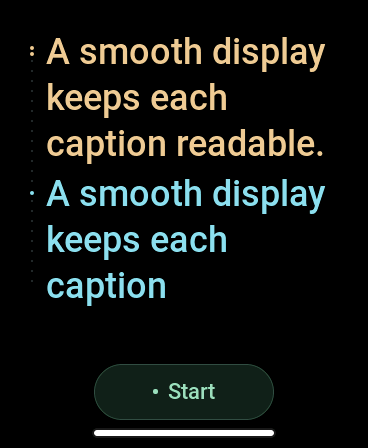
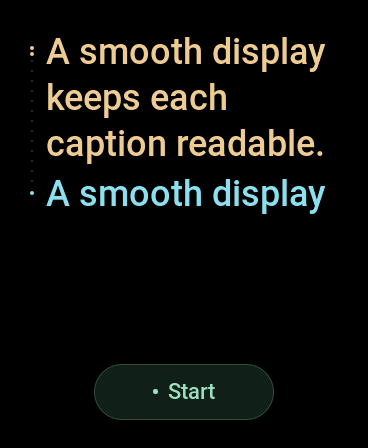
Hide the bottom gesture indicator in Live Voice

Changed region(s): [[0.1196, 0.5, 0.6277, 0.6875], [0.2391, 0.9375, 0.7473, 1.0]]

diff --git a/tools/prepare_voice.py b/tools/prepare_voice.py
@@ -277,6 +277,31 @@ def write_secrets(private, key, networks):
     )
 
 
+def patch_gesture_indicator(root):
+    """Allow an app to hide the bottom indicator without disabling gestures."""
+    phone = root / "components/brookesia_core/systems/phone"
+    replace(
+        phone / "esp_brookesia_phone_app.hpp",
+        "                    .enable_navigation_gesture = 1,",
+        "                    .enable_navigation_gesture = 1,\n"
+        "                    .hide_bottom_gesture_indicator = 0,",
+    )
+    replace(
+        phone / "esp_brookesia_phone_app.hpp",
+        "                                                                will be enabled. */",
+        "                                                                will be enabled. */\n"
+        "            uint8_t hide_bottom_gesture_indicator: 1; /*!< Hide only the visual hint, not gesture input. */",
+    )
+    replace(
+        phone / "esp_brookesia_phone_manager.cpp",
+        "        _flags.enable_gesture_show_left_right_indicator_bar = _flags.enable_gesture_show_mask_left_right_edge;\n"
+        "        _flags.enable_gesture_show_bottom_indicator_bar = _flags.enable_gesture_show_mask_bottom_edge;",
+        "        _flags.enable_gesture_show_left_right_indicator_bar = _flags.enable_gesture_show_mask_left_right_edge;\n"
+        "        _flags.enable_gesture_show_bottom_indicator_bar = _flags.enable_gesture_show_mask_bottom_edge &&\n"
+        "                !app_data->flags.hide_bottom_gesture_indicator;",
+    )
+
+
 def patch_audio_stats(root):
     """Expose TX DMA starvation without logging or taking locks in the ISR."""
     header = root / "components/bsp_extra/include/bsp_board_extra.h"
@@ -593,6 +618,7 @@ def main():
         '    case BSP_EXTRA_AUDIO_OWNER_XIAOZHI: return "Xiaozhi";',
         '    case BSP_EXTRA_AUDIO_OWNER_XIAOZHI: return "Xiaozhi";\n    case BSP_EXTRA_AUDIO_OWNER_LIVE: return "Live Voice";',
     )
+    patch_gesture_indicator(root)
     patch_audio_stats(root)
     patch_wifi_scan(root)
     defaults = root / "sdkconfig.defaults"

diff --git a/examples/waveshare/LiveVoice.cpp b/examples/waveshare/LiveVoice.cpp
@@ -251,8 +251,15 @@ LiveVoice *LiveVoice::requestInstance() {
   static auto *instance = new LiveVoice();
   return instance;
 }
-// Use the full height for the conversation; keep the launcher's back gesture.
-LiveVoice::LiveVoice() : App("Live Voice", nullptr, true, false, true) {}
+// Hide the persistent system chrome while retaining launcher navigation gestures.
+LiveVoice::LiveVoice()
+    : App(systems::base::App::Config::SIMPLE_CONSTRUCTOR("Live Voice", nullptr,
+                                                       true),
+          [] {
+            auto config = App::Config::SIMPLE_CONSTRUCTOR(nullptr, false, true);
+            config.flags.hide_bottom_gesture_indicator = 1;
+            return config;
+          }()) {}
 bool LiveVoice::init() {
   live_esp32_config_t cfg{};
   cfg.api_key = LIVE_API_KEY;

diff --git a/docs/screenshots/README.md b/docs/screenshots/README.md
@@ -3,11 +3,12 @@
 These PNGs are direct framebuffer captures from Live Voice running on a physical
 Waveshare ESP32-S3-Touch-AMOLED-1.8 V2. They show the full
 368 × 448 display with the Dot rail layout, 36-pixel Roboto captions, and an
-enlarged 260 × 112-pixel opening Start button. The launcher status bar is hidden;
-its bottom navigation gesture is retained. They are not camera photographs and do not
+enlarged 260 × 112-pixel opening Start button. The current app hides the launcher
+status bar and bottom white indicator while retaining navigation gestures.
+They are not camera photographs and do not
 measure physical display brightness.
 
-- `ready.png`: ready to start a session, captured October 15, 2026.
+- `ready.png`: ready to start a session, captured October 26, 2026.
 - `conversation.png`: synthetic user and assistant captions from the local
   `live captions-test` workload, captured October 26, 2026. This demonstrates
   the larger text, wrapping, colors, and turn markers. No Live session was active,
@@ -15,7 +16,8 @@ measure physical display brightness.
 - `usage.png`: model names, voice duration, and delegated backend token usage
   after a completed, microphone-muted session, captured October 15, 2026.
   No backend response was requested,
-  so the token counts are zero.
+  so the token counts are zero. This older capture still shows the bottom white
+  indicator, which is hidden in the current firmware; the usage layout is unchanged.
 
 The captures were taken during device tests using the USB screen mirror.
 Displayed usage is illustrative and is not a pricing estimate. The mirror's

diff --git a/examples/waveshare/README.md b/examples/waveshare/README.md
@@ -28,8 +28,9 @@ with a 28-pixel label. Status text appears for connection progress or errors.
 During calls and on the usage page, the control is 180 × 56 pixels to preserve content space.
 Both sizes use a tinted surface, a clearly colored label and dot, and 20 pixels
 of additional invisible touch padding.
-The launcher's clock/status strip is hidden while the app is open; the bottom
-navigation gesture remains available.
+The launcher's clock/status strip and white bottom gesture indicator are hidden
+while the app is open. The bottom navigation gesture remains available; the
+indicator returns in the launcher and other apps.
 Captions keep Unicode characters covered by the bundled font and fall back to
 readable ASCII (or `?`) for unsupported characters. The SDK keeps the original
 transcript. See [font coverage and regeneration](fonts/README.md).

diff --git a/README.md b/README.md
@@ -35,7 +35,8 @@ are specific to each named board; do not flash one example onto another device.
 
 These are unmodified framebuffer captures from the app running on a physical
 Waveshare device, not mockups. The Dot rail layout hides the launcher's status
-bar to give captions more room. See [capture details](docs/screenshots/README.md).
+bar and bottom gesture indicator. The usage reference predates the indicator
+change; see [capture dates and details](docs/screenshots/README.md).
 
 | Ready | Caption layout | Session usage |
 | --- | --- | --- |
